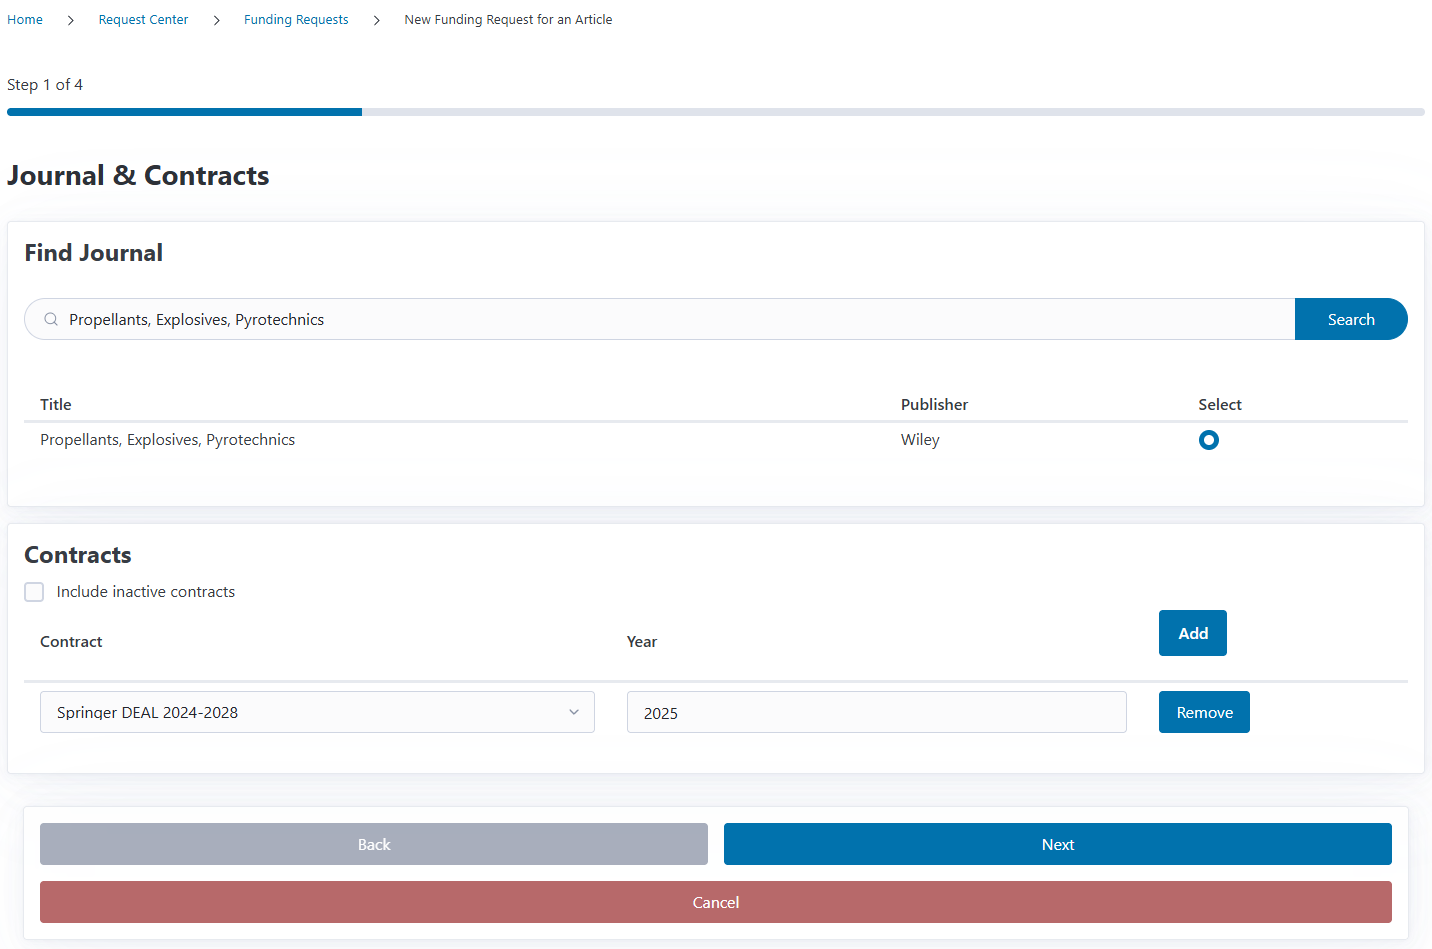
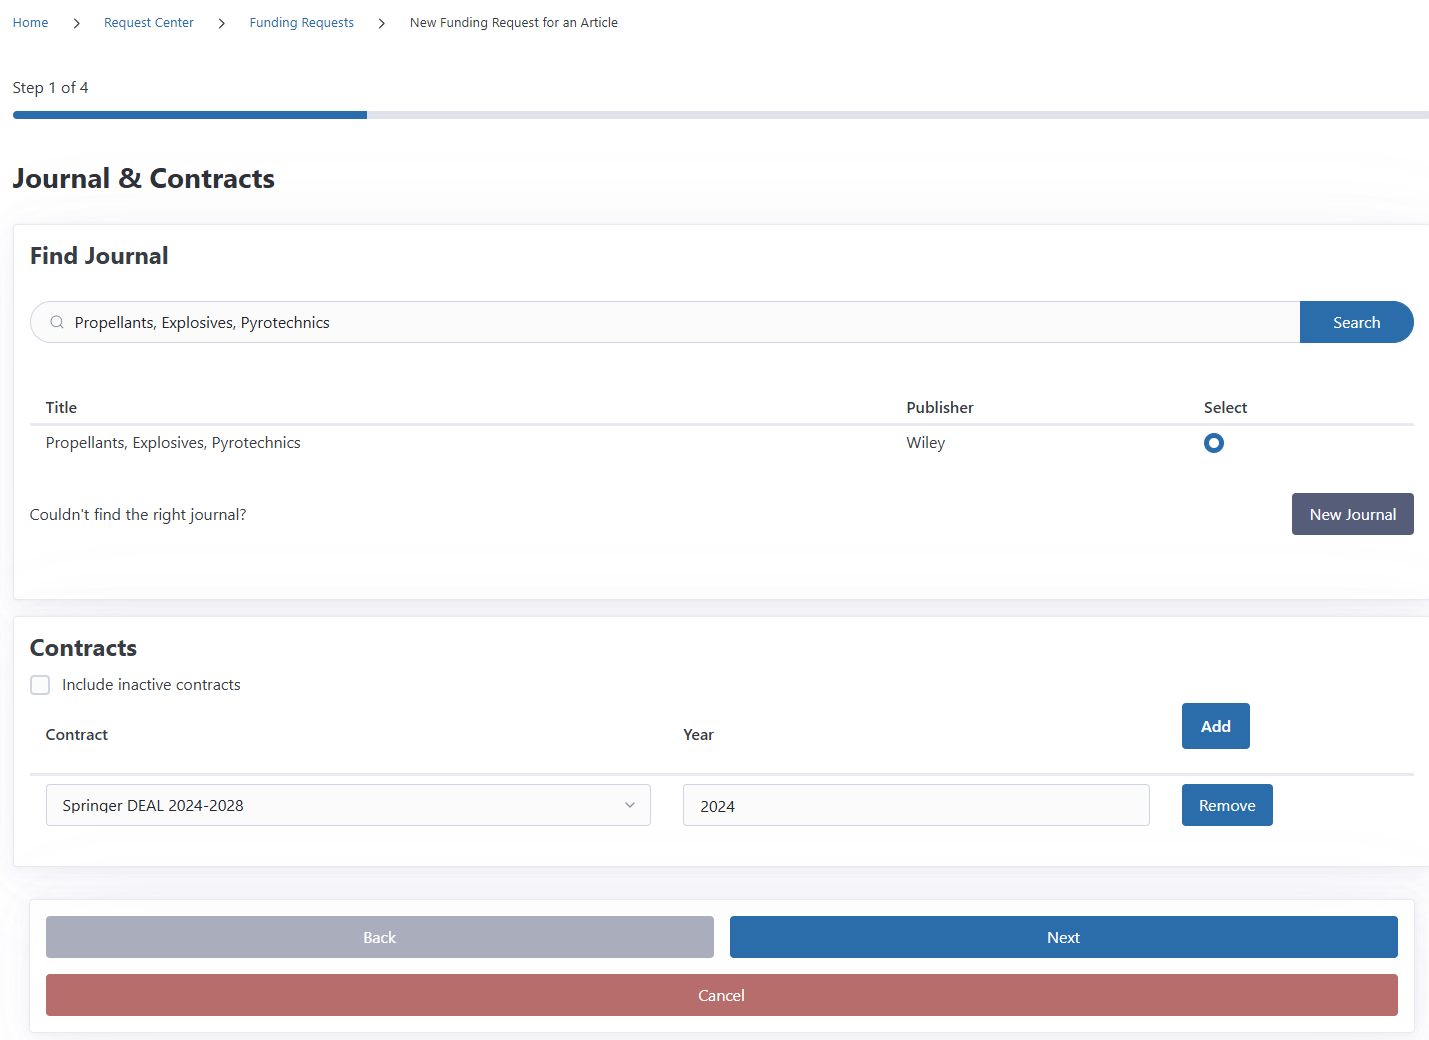
docs(documentation): updated the funding request and invoice documentation due to modal changes
#100

diff --git a/docs/users/features/fundingrequests.md b/docs/users/features/fundingrequests.md
@@ -68,6 +68,7 @@ Search and select a journal from CODA's database of over 26,000 entries:
 
 - Type the journal name to search
 - Select from the result list
+- **New Journal/Publisher**: If the journal or publisher doesn't exist yet, click the **New Journal** or **New Publisher** button to open a modal where you can create it without losing your form data
 
 For monograph requests, you'll select a publisher instead of a journal.
 
@@ -146,10 +147,11 @@ In this step you can collect financial information:
 Add information about third-party funding sources supporting this publication:
 
 - **Funding Organization**: Select from [pre-configured funders](funders.md) (e.g. DFG, BMBF, etc.)
+  - **New Funder**: If the funding organization doesn't exist yet, click the **Create New Funding Organization** button to open a modal where you can create it without losing your funding request data
 - **Project ID**: Grant or project identifier
 - **Project Name**: Full project name
 
-You can add multiple funding sources if the publication is supported by several grants.
+You can add multiple funding sources if the publication is supported by several grants. When you create a new funding organization via the modal, it becomes immediately available in all funding organization dropdowns in your form, allowing you to select it for any funding row.
 
 ```{admonition} Note
 As the final costs of a publication are not always known when a funding request comes in, CODA allows you to provide an estimate. This is useful during review to determine whether costs exceed funding limits and whether negotiation with publishers may be necessary.

diff --git a/docs/users/features/invoices.md b/docs/users/features/invoices.md
@@ -21,6 +21,7 @@ The header contains metadata about the invoice:
 - **Invoice Number**: The unique identifier from the creditor (e.g., "INV-2024-12345")
 - **Invoice Date**: When the invoice was issued
 - **Creditor**: The organization that sent the invoice (selected from your [Creditors](creditors.md) list)
+  - **New Creditor**: If the creditor doesn't exist yet, click the **New** button to open a modal where you can create it without losing your invoice form data
 - **Currency**: The currency used for all positions on this invoice
 - **Payment Status**: Unpaid, Paid or Rejected
 - **External Invoice ID** *(optional)*: Reference ID from external systems
